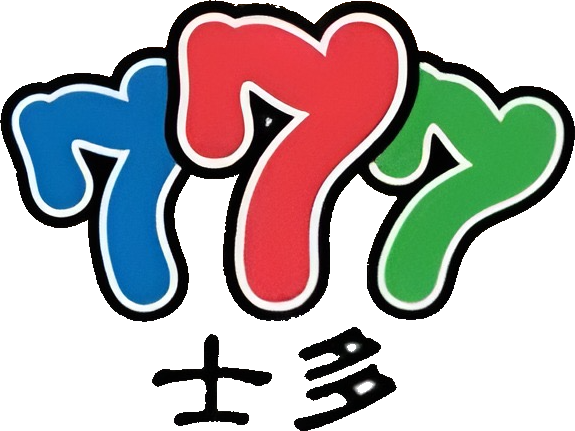
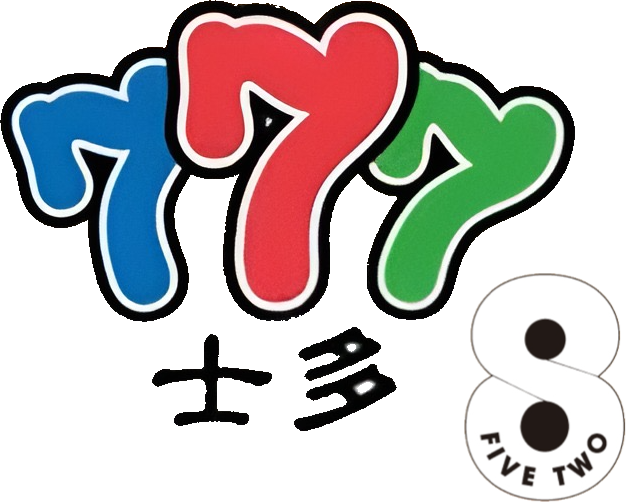
modified allrightreserved and 777logo

diff --git a/src/login.js b/src/login.js
@@ -2,6 +2,8 @@ import React, { useState } from 'react';
 import { Link, useNavigate } from 'react-router-dom';
 import { getAuth, signInWithEmailAndPassword } from 'firebase/auth';
 import { useAuth } from './AuthContext'; // Import useAuth hook from AuthContext
+import logo from './777.png';
+import eiLogo from './eilogo.png'; // Import the image file
 
 function Login() {
     const [email, setEmail] = useState('');
@@ -53,6 +55,14 @@ function Login() {
     textAlign: 'center',
   };
 
+  const logoStyle = {
+    position: 'absolute',
+    top: '20px', // Adjust as needed
+    left: '50%',
+    transform: 'translateX(-50%)',
+    width: '200px', // Adjust the width as needed
+  };
+
   const inputStyle = {
     marginBottom: '20px',
     padding: '10px',
@@ -65,7 +75,10 @@ function Login() {
 
   return (
     <div style={containerStyle}>
-      <h1>歡迎來到 AutoShop</h1>
+      <img src={logo} alt="Logo" style={logoStyle} /> 
+      <br></br>
+      <br></br>
+      <h2>歡迎來到 777士多</h2>
       <p>登入帳戶: 輸入您的電子郵件和密碼以登入。</p>
 
       {/* Login form */}
@@ -86,7 +99,7 @@ function Login() {
           style={inputStyle}
         />
         <br />
-        <button style={buttonStyle} type="submit">Login</button>
+        <button style={buttonStyle} type="submit">立即登入</button>
       </form>
 
       {/* Display error message if there's an error */}
@@ -94,6 +107,12 @@ function Login() {
 
       {/* Link to sign up */}
       <p>還沒有帳戶?？ <Link to="/signup">立即註冊</Link></p>
+       {/* Line: POWERED by EVERYTHING INTELLIGENCE, 萬智科技 2024 All rights reserved */}
+       <p style={{ fontSize: '13px' }}>POWERED by EVERYTHING INTELLIGENCE . 萬智科技 2024 All rights reserved</p>
+
+   {/* Add the image with smaller size */}
+<img src={eiLogo} alt="EI Logo" style={{ width: '100px', height: 'auto' }} />
+
     </div>
   );
 }

diff --git a/src/SignUp.js b/src/SignUp.js
@@ -3,6 +3,7 @@ import { Link, useNavigate } from 'react-router-dom';
 import { getAuth, createUserWithEmailAndPassword } from 'firebase/auth'; 
 import { getFirestore, collection, addDoc, doc, setDoc } from 'firebase/firestore'; // Import Firestore methods
 import logo from './777.png';
+import eiLogo from './eilogo.png'; // Import the image file
 
 function SignUp({ onSignUpSuccess }) {
   const [email, setEmail] = useState('');
@@ -82,9 +83,11 @@ function SignUp({ onSignUpSuccess }) {
 
   return (
     <div style={containerStyle}>
-       <br></br>
+      <br />
       <img src={logo} alt="Logo" style={logoStyle} /> 
-      <br></br>
+      <br />
+       <br /> <br />
+       <br /> <br />
       <h2>歡迎來到777士多</h2>
       <p>建立帳戶: 輸入您的電子郵件和密碼以註冊。</p>
 
@@ -117,6 +120,13 @@ function SignUp({ onSignUpSuccess }) {
 
       {/* Already have an account? */}
       <p>已經有帳戶了嗎？ <Link to="/login">立即登入</Link></p>
+
+      {/* Line: POWERED by EVERYTHING INTELLIGENCE, 萬智科技 2024 All rights reserved */}
+      <p style={{ fontSize: '13px' }}>POWERED by EVERYTHING INTELLIGENCE . 萬智科技 2024 All rights reserved</p>
+
+{/* Add the image with smaller size */}
+<img src={eiLogo} alt="EI Logo" style={{ width: '100px', height: 'auto' }} />
+
     </div>
   );
 }
